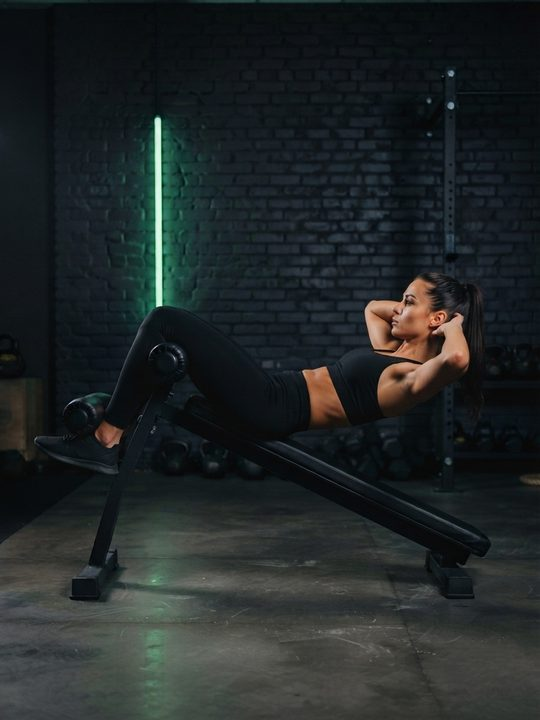
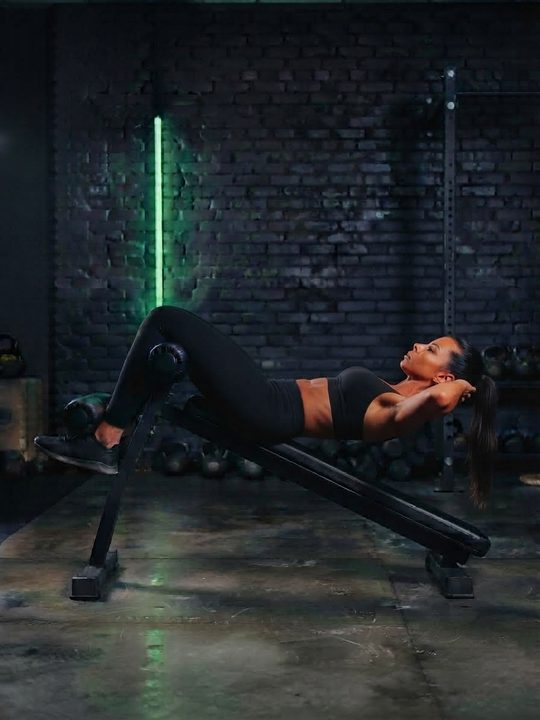
decline_crunch: Frau-Start an Endbild-Look angeglichen
Claude-Session: https://claude.ai/code/session_01PvyiLGJFyas6muFwwubScP

diff --git a/script.js b/script.js
@@ -528,7 +528,7 @@ function renderOverview() {
 // V8-04: Wochenplan-Einträge (haben trainingId) sind anklickbar -> Detailseite mit Dauer/Kalorien.
 // V6-08: Verlauf als Foto-Kacheln mit Wochenkopf, Gruppierung nach Woche/Monat.
 let imgSet = new Set();
-fetch('img/index.json?v=24').then(r => r.json()).then(a => { imgSet = new Set(a); }).catch(() => {});
+fetch('img/index.json?v=25').then(r => r.json()).then(a => { imgSet = new Set(a); }).catch(() => {});
 function slugOf(g) { return (g || '').replace(/^gifs\//, '').replace(/\.gif$/, ''); }
 // Foto passend zum Profil (m/w); ohne Foto -> GIF
 function imgOf(ex) {
